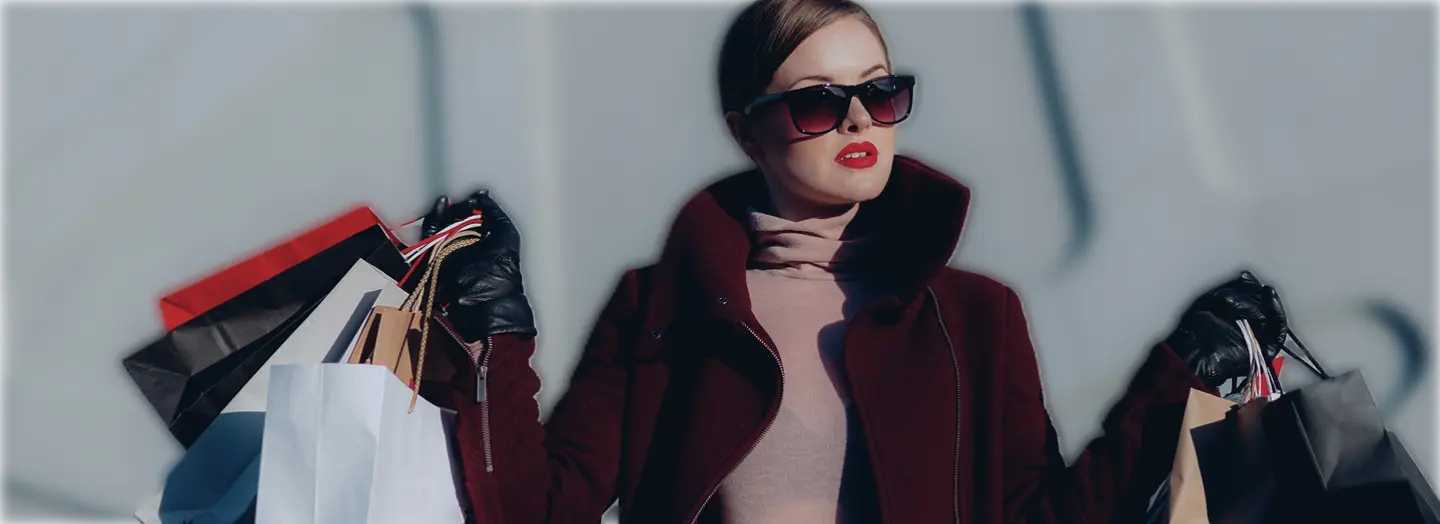
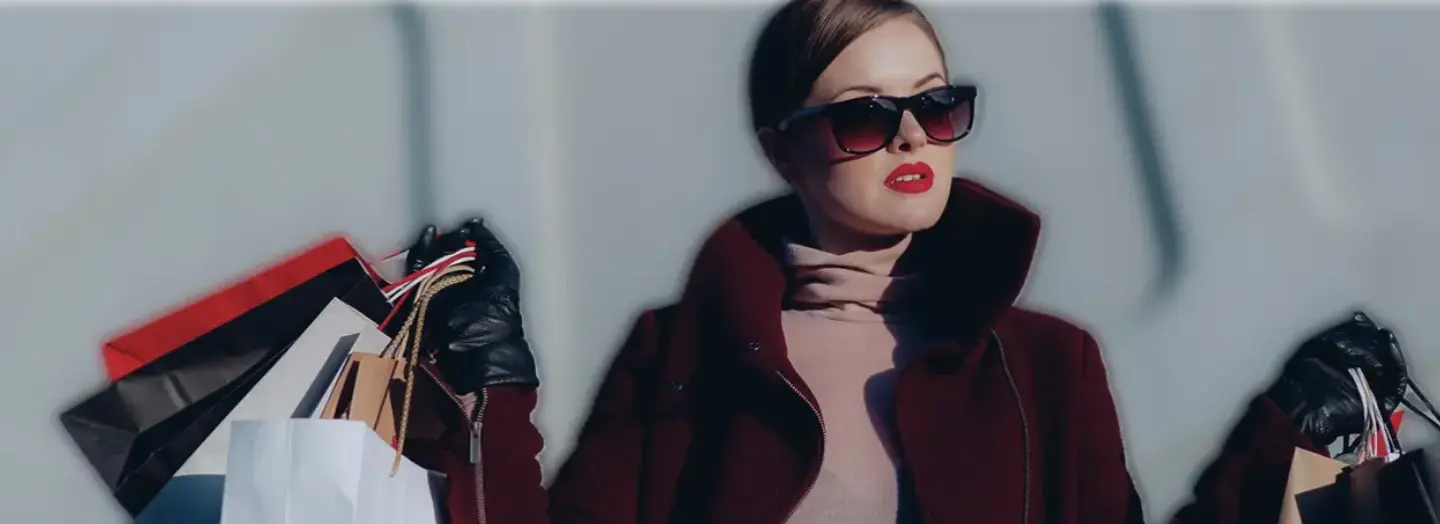
perbaikan ui

diff --git a/src/components/Hero.tsx b/src/components/Hero.tsx
@@ -5,81 +5,59 @@ import { motion } from 'framer-motion';
 export default function Hero() {
     return (
         <section className="relative w-full h-[85vh] overflow-hidden bg-black flex items-center justify-center -mt-20">
-            {/* Background Image */}
+            {/* Background Image & Overlay */}
             <motion.div
-                initial={{ scale: 1.05, opacity: 0.5 }}
+                initial={{ scale: 1.15, opacity: 0.5 }}
                 animate={{ scale: 1, opacity: 1 }}
-                transition={{ duration: 1.5, ease: "easeOut" }}
-                className="absolute inset-0 z-0 bg-cover bg-center bg-no-repeat opacity-80"
+                transition={{ duration: 2, ease: "easeOut" }}
+                className="absolute top-12 inset-x-0 bottom-0 z-0 bg-cover bg-center bg-no-repeat"
                 style={{ backgroundImage: "url('/images/Hero.webp')" }}
-            />
+            >
+                {/* Darkening layer */}
+                <div className="absolute inset-0 bg-black/10" />
+            </motion.div>
 
             {/* Overlay Content */}
-            <div className="relative z-10 w-full max-w-[1400px] mx-auto px-6 h-full flex flex-col justify-center mt-20">
+            <div className="relative z-10 w-full max-w-[1400px] mx-auto px-6 h-full flex flex-col justify-center mt-0">
 
-                {/* Top Text */}
-                <motion.p
-                    initial={{ y: 20, opacity: 0 }}
-                    animate={{ y: 0, opacity: 1 }}
-                    transition={{ delay: 0.3, duration: 0.8 }}
-                    className="text-white text-sm tracking-[0.2em] font-medium mb-2 uppercase"
-                >
-                    Onyx Tee&apos;s Remember
-                </motion.p>
-
-                {/* Huge KEMET Text block */}
-                <div className="relative w-full flex items-center justify-between mt-8">
+                {/* Huge KREVO Text block */}
+                <div className="relative w-full flex flex-col items-start justify-center mt-20 -ml-2 md:-ml-4">
                     <motion.h1
                         initial={{ x: -50, opacity: 0 }}
                         animate={{ x: 0, opacity: 1 }}
                         transition={{ delay: 0.6, duration: 1 }}
-                        className="text-[100px] md:text-[180px] lg:text-[250px] font-black text-[#e4572e] leading-none tracking-tighter"
+                        className="text-[80px] md:text-[130px] lg:text-[180px] font-black text-[#e4572e] leading-none tracking-tighter"
                     >
-                        KEMET
+                        KREVO
                     </motion.h1>
 
                     <motion.div
-                        initial={{ x: 50, opacity: 0 }}
-                        animate={{ x: 0, opacity: 1 }}
+                        initial={{ y: 50, opacity: 0 }}
+                        animate={{ y: 0, opacity: 1 }}
                         transition={{ delay: 0.9, duration: 1 }}
-                        className="hidden md:flex flex-col items-end mt-[120px]"
+                        className="flex flex-row items-baseline mt-2 md:mt-4 ml-2 max-w-[1400px]"
                     >
-                        <h2 className="text-white text-4xl md:text-7xl lg:text-[80px] font-black tracking-tighter leading-none mb-1">
+                        <h2 className="text-white text-2xl md:text-3xl lg:text-[40px] font-black tracking-tighter leading-none">
                             Collection
                         </h2>
-                        <p className="text-transparent text-5xl md:text-[100px] font-black tracking-widest leading-none" style={{ WebkitTextStroke: '1px white' }}>
-                            2025
+                        <p className="text-transparent text-2xl md:text-4xl lg:text-[50px] font-black tracking-widest leading-none ml-3 md:ml-4" style={{ WebkitTextStroke: '1px white' }}>
+                            2026
                         </p>
                     </motion.div>
                 </div>
-
-                {/* Mobile secondary text */}
-                <motion.div
-                    initial={{ opacity: 0 }}
-                    animate={{ opacity: 1 }}
-                    transition={{ delay: 0.9, duration: 1 }}
-                    className="md:hidden flex flex-col items-end w-full -mt-4"
-                >
-                    <h2 className="text-white text-4xl font-black tracking-tighter leading-none mb-1">
-                        Collection
-                    </h2>
-                    <p className="text-transparent text-5xl font-black tracking-widest leading-none" style={{ WebkitTextStroke: '1px white' }}>
-                        2025
-                    </p>
-                </motion.div>
 
                 {/* Bottom Left Content */}
                 <motion.div
                     initial={{ y: 30, opacity: 0 }}
                     animate={{ y: 0, opacity: 1 }}
                     transition={{ delay: 1.2, duration: 0.8 }}
-                    className="mt-auto mb-16 max-w-sm"
+                    className="mt-auto mb-16 max-w-md"
                 >
-                    <p className="text-gray-200 text-xs leading-relaxed mb-6 font-light">
-                        Embrace KEMET (k.m.t), one of Africa&apos;s many great civilizations and the world&apos;s BLUEPRINT for math, science, religion, governance and culture.
+                    <p className="text-gray-200 text-sm leading-relaxed mb-5 font-light">
+                        Bersama KREVO, mari dukung UMKM lokal<br /> dan bangun ekonomi kreatif dari produk-produk terbaik<br /> karya anak bangsa.
                     </p>
                     <button className="bg-white text-black px-8 py-4 text-xs font-bold tracking-widest uppercase hover:bg-gray-200 transition-colors">
-                        Discover Kemet
+                        Discover KREVO
                     </button>
                 </motion.div>
 
